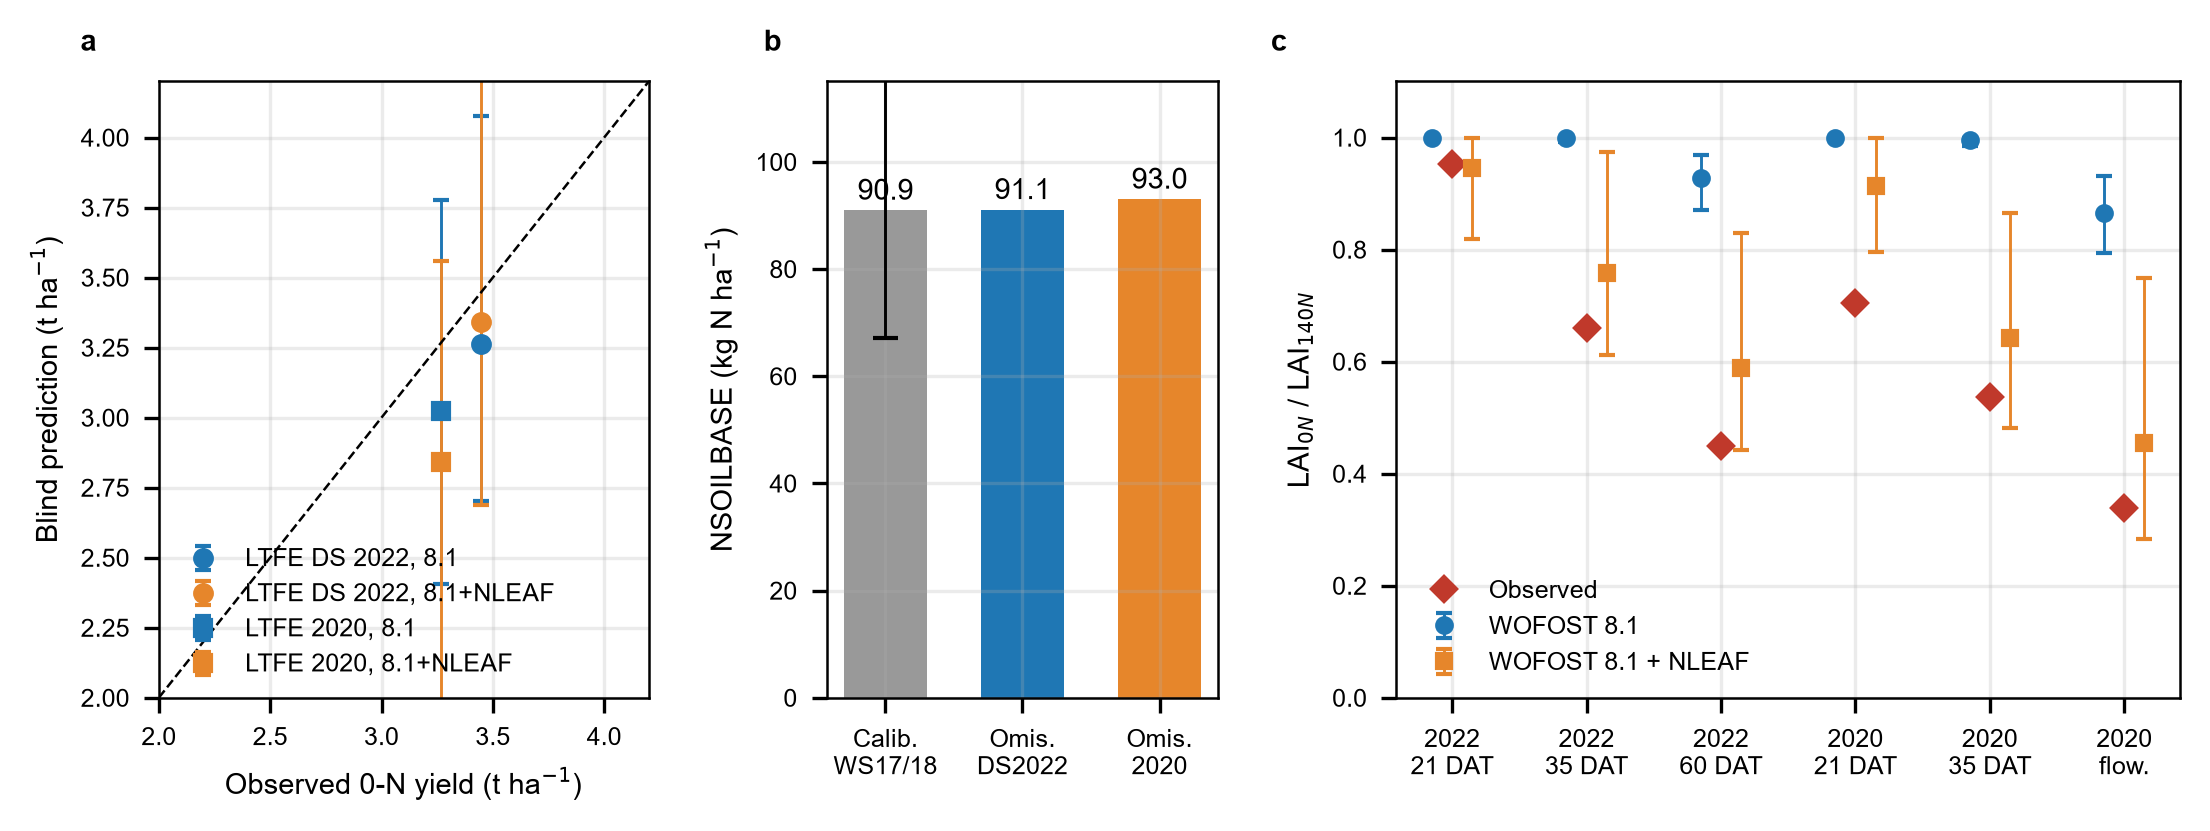
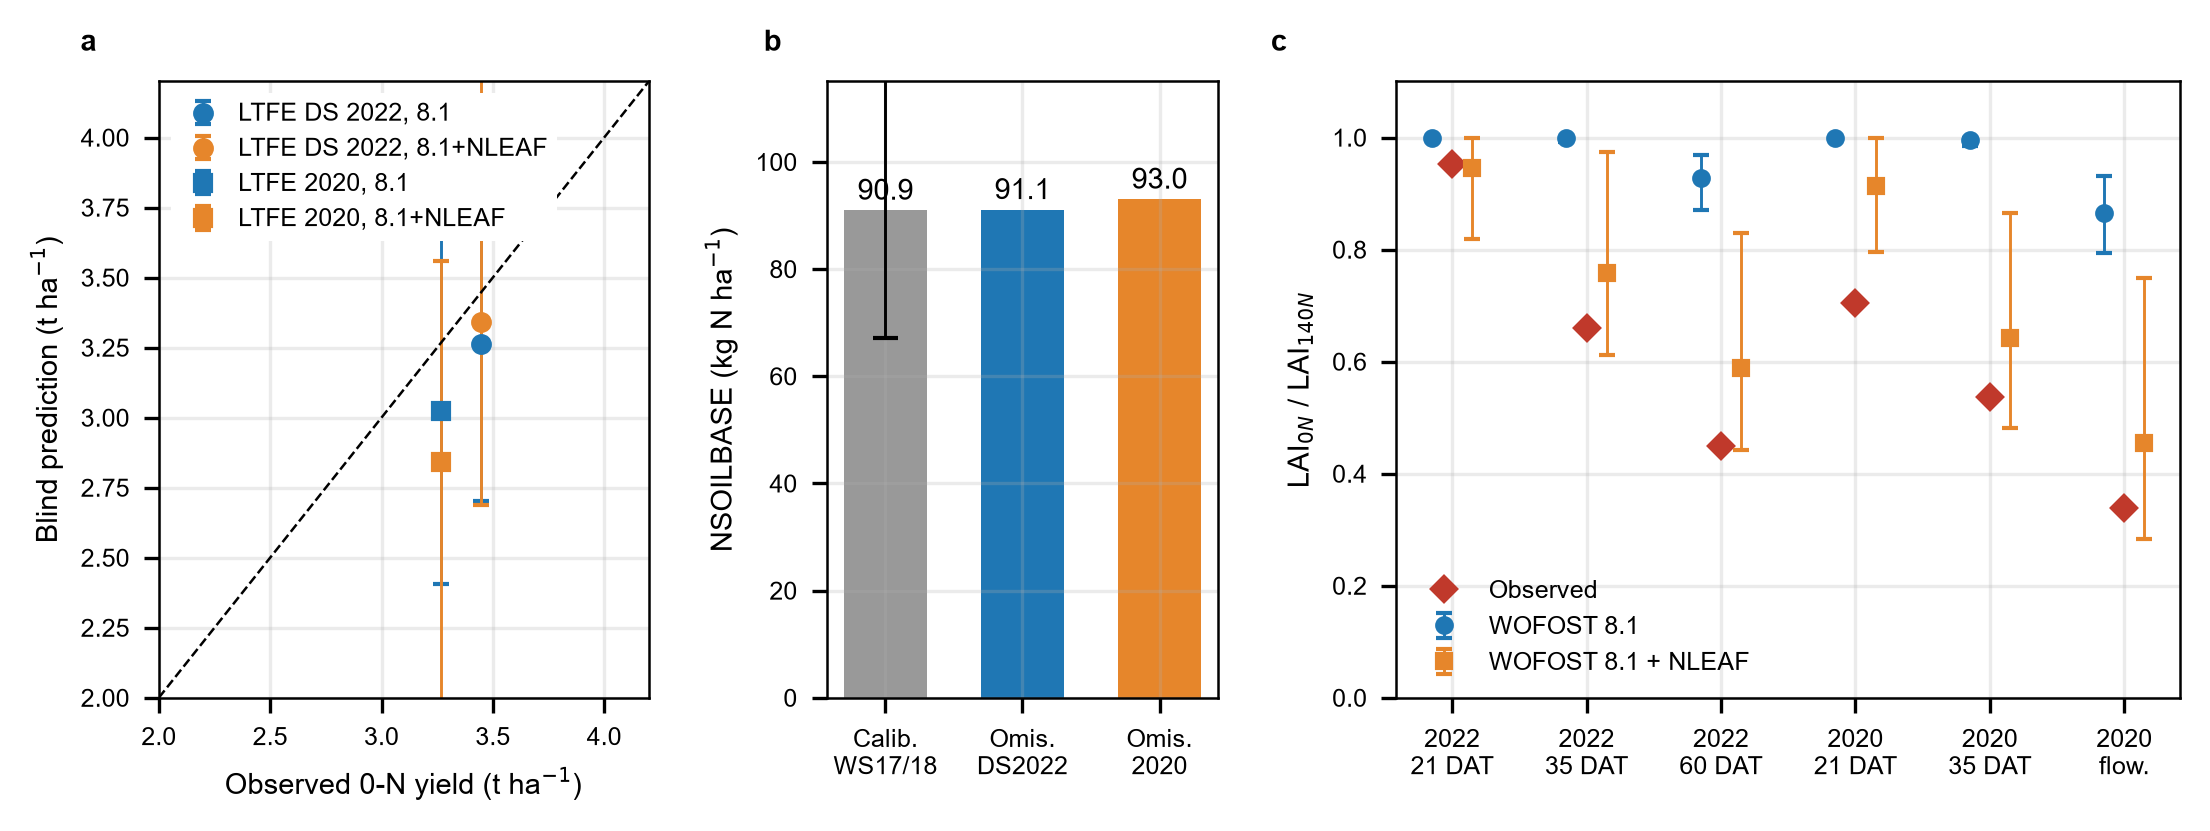
Fig. 5a: move legend to upper left with opaque frame so the 1:1 line no longer crosses the text

Changed region(s): [[0.0624, 0.1203, 0.2498, 0.2708], [0.0624, 0.6619, 0.2498, 0.8123]]

diff --git a/naskah/buat_gambar.py b/naskah/buat_gambar.py
@@ -182,7 +182,7 @@ def fig5():
             ax[0].errorbar(o, b["median"] / 1e3, yerr=[[(b["median"] - b["q2_5"]) / 1e3], [(b["q97_5"] - b["median"]) / 1e3]],
                            fmt=mk, color=c, ms=4, capsize=2, lw=0.7, label=f"{lab}, {'8.1' if m == 'std' else '8.1+NLEAF'}")
     ax[0].plot([2, 4.2], [2, 4.2], "k--", lw=0.6); ax[0].set_xlim(2, 4.2); ax[0].set_ylim(2, 4.2)
-    ax[0].set_xlabel("Observed 0-N yield (t ha$^{-1}$)"); ax[0].set_ylabel("Blind prediction (t ha$^{-1}$)"); ax[0].legend(fontsize=5.6, frameon=False)
+    ax[0].set_xlabel("Observed 0-N yield (t ha$^{-1}$)"); ax[0].set_ylabel("Blind prediction (t ha$^{-1}$)"); ax[0].legend(fontsize=5.6, loc="upper left", frameon=True, framealpha=1.0, edgecolor="none", borderpad=0.4, handletextpad=0.5)
     vals = [fin["std"]["NSOILBASE"], V["S2022"]["std"]["NSOILBASE_B"], V["S2020"]["std"]["NSOILBASE_B"]]
     ax[1].bar(["Calib.\nWS17/18", "Omis.\nDS2022", "Omis.\n2020"], vals, color=["0.6", C_STD, C_EXT], width=0.6)
     lo, hi = P["std"]["posterior"]["NSOILBASE"]["q2_5"], P["std"]["posterior"]["NSOILBASE"]["q97_5"]
